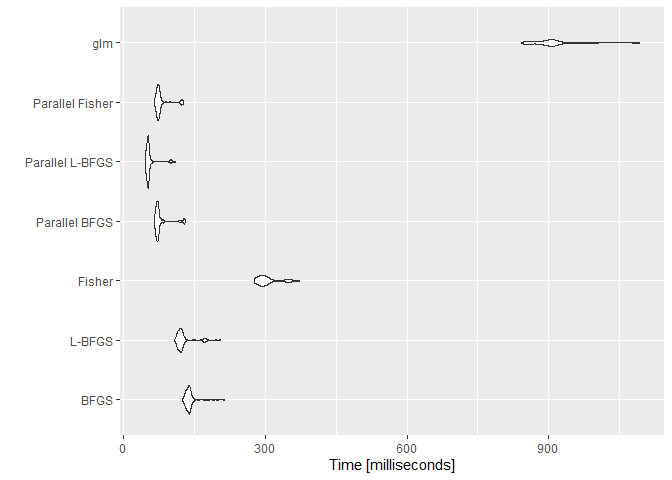
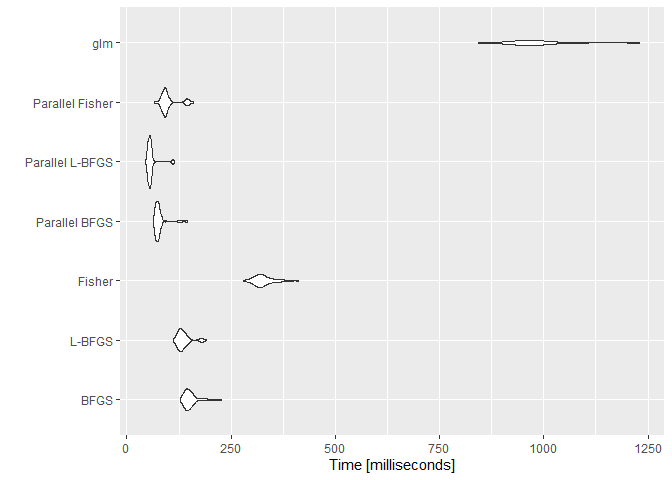
Updating for package version 2.1.1

diff --git a/README.md b/README.md
@@ -155,7 +155,7 @@ BranchTime
 ```
 
     ##    user  system elapsed 
-    ##    0.19    0.00    0.19
+    ##    0.17    0.02    0.22
 
 ``` r
 ### Timing exhaustive search
@@ -166,10 +166,10 @@ ExhaustiveTime
 ```
 
     ##    user  system elapsed 
-    ##  130.64    0.30  135.83
+    ##  135.51    0.44  137.78
 
 Finding the top 10 logistic regression models for this simulated dataset
-with 15 variables with the branch and bound method is about 714.89 times
+with 15 variables with the branch and bound method is about 626.27 times
 faster than an exhaustive search.
 
 ### Checking results
@@ -200,13 +200,7 @@ summ <- summary(BranchVS)
 plot(summ, type = "b")
 ```
 
-![](README_images/visualization-1.png)<!-- -->
-
-``` r
-plot(summ, ptype = "variables")
-```
-
-![](README_images/visualization-2.png)<!-- -->
+![](README_images/visualization-1.png)<!-- -->![](README_images/visualization-2.png)<!-- -->
 
 ## Parallel computation
 
@@ -230,7 +224,7 @@ SerialTime
 ```
 
     ##    user  system elapsed 
-    ##   52.11    0.75   56.56
+    ##   55.91    0.91   57.94
 
 ### Parallel time
 
@@ -245,10 +239,10 @@ ParallelTime
 ```
 
     ##    user  system elapsed 
-    ##    6.42    0.03   15.27
+    ##    5.58    0.01   15.86
 
 Finding the top logistic regression model for this simulated dataset
-with 40 variables with parallel computation is about 3.7 times faster
+with 40 variables with parallel computation is about 3.65 times faster
 than without parallel computation.
 
 ### Checking results

diff --git a/NEWS.md b/NEWS.md
@@ -1,6 +1,17 @@
 BranchGLM News
 ================
 
+# BranchGLM 2.1.1
+
+- Adding multiple new arguments to `plot.summary.BranchGLMVS()` and
+  `plot.BranchGLMVS()`
+- Changing estimate of dispersion for gaussian GLMs to be the MLE
+  instead of the unbiased estimator
+- Adding keepintercept argument to `VariableSelection()` to specify
+  whether the intercept should be kept or not
+- Removing standard errors and p-values from output of `fit()` since
+  these are biased due to the variable selection process
+
 # BranchGLM 2.1.0
 
 - Fixing bug in `VariableSelection()` when using formulas of the form

diff --git a/cran-comments.md b/cran-comments.md
@@ -1,4 +1,4 @@
 BranchGLM
 ================
 
-Updating package to version 2.1.0.
+Updating package to version 2.1.1.
